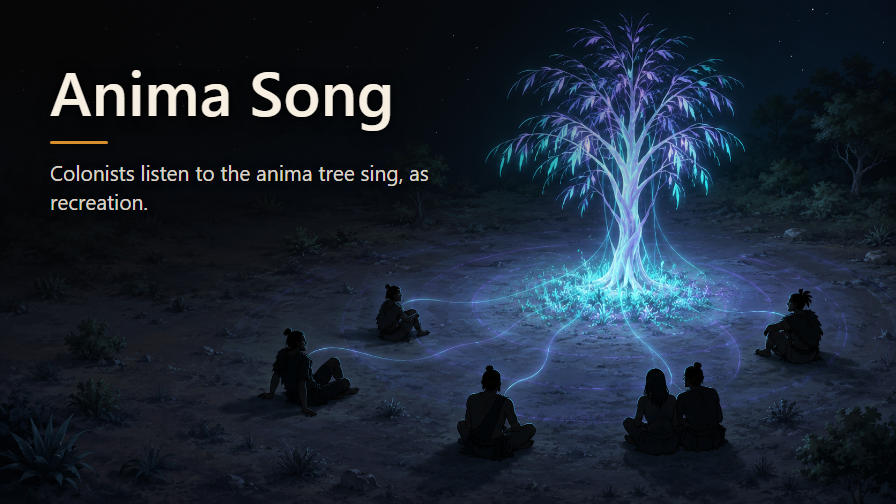
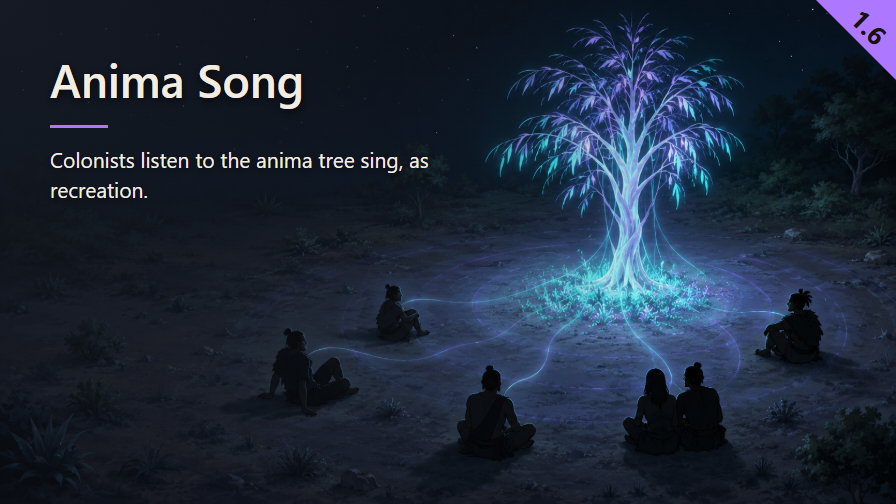
Recompose preview overlay with violet accent and version badge

diff --git a/Art/preview.html b/Art/preview.html
@@ -1,0 +1,40 @@
+<!doctype html>
+<html lang="en">
+<meta charset="utf-8">
+<title>Anima Song preview composition</title>
+<style>
+* { box-sizing: border-box; margin: 0; padding: 0; }
+html, body { width: 896px; height: 504px; overflow: hidden; }
+body { font-family: var(--font); }
+.art, .veil { position: absolute; inset: 0; width: 896px; height: 504px; }
+.art { object-fit: cover; }
+.copy { position: absolute; left: 50px; top: 54px; color: var(--inkPrimary); text-shadow: 0 3px 10px rgba(0,0,0,.75); }
+h1 { font-size: var(--titleSize); font-weight: 600; line-height: 1.1; letter-spacing: 0; width: max-content; max-width: 742px; }
+.tag { color: var(--inkSecondary); font-size: 24px; font-weight: 400; line-height: 1.1; letter-spacing: .2px; margin-top: 8px; }
+.rule { width: 58px; height: 3px; background: var(--accent); margin-top: 20px; margin-bottom: 16px; }
+.summary { width: 430px; font-size: 21px; font-weight: 400; line-height: 1.45; letter-spacing: 0; }
+.badge { position: absolute; right: 0; top: 0; width: 80px; height: 80px; background: var(--accent); clip-path: polygon(0 0,100% 0,100% 100%); }
+.version { position: absolute; left: 869px; top: 27px; transform: translate(-50%,-50%) rotate(45deg); color: var(--badgeInk); font-size: 26px; font-weight: 700; line-height: 1; text-shadow: none; }
+</style>
+<img class="art" alt="An anima tree with seated listeners">
+<div class="veil"></div>
+<main class="copy"><h1></h1><p class="tag" hidden></p><div class="rule"></div><p class="summary"></p></main>
+<div class="badge"></div><div class="version"></div>
+<script>
+window.ready = (async () => {
+  const [palette, layout] = await Promise.all(['preview-palette.json','preview-layout.json'].map(p => fetch(p).then(r => r.json())));
+  for (const [key, value] of Object.entries(palette)) document.documentElement.style.setProperty('--' + key, value);
+  document.documentElement.style.setProperty('--font', layout.font);
+  document.documentElement.style.setProperty('--titleSize', layout.titleSize + 'px');
+  document.querySelector('.art').src = layout.source;
+  document.querySelector('h1').textContent = layout.title;
+  document.querySelector('.summary').textContent = layout.summary;
+  document.querySelector('.version').textContent = layout.version;
+  if (layout.tag) { document.querySelector('.tag').hidden = false; document.querySelector('.tag').textContent = layout.tag; }
+  const rgb = palette.veil.match(/\w\w/g).map(x => parseInt(x,16)).join(',');
+  document.querySelector('.veil').style.background = `radial-gradient(circle at 0% 0%, rgba(${rgb},${layout.veilOpacity}) 0%, rgba(${rgb},0) ${layout.veilEndPercent}%)`;
+  await document.querySelector('.art').decode();
+  await document.fonts.ready;
+})();
+</script>
+</html>

diff --git a/STATUS.md b/STATUS.md
@@ -24,6 +24,42 @@ updated:      2026-09-12, the mod's own session
 
 # Anima Song — status
 
+## Preview overlay — 2026-09-12
+
+- Final asset: `Mod/About/Preview.png`, composed directly in HTML/CSS at 896 × 504,
+  711,863 bytes (below 900 KB). Nothing published.
+- Retained illustration: `Art/Preview.png`, an unchanged copy of the existing text-free
+  `Art/Preview-source.png`. No replacement or generation; the older original remains intact.
+  Its clear left-hand space suits the overlay. This pass retains the illustration's existing
+  cinematic style; it does not claim to correct the illustration deviations noted in the guide.
+- Composition: `Art/preview.html`; parameters and unchanged title/summary:
+  `Art/preview-layout.json`; sole colour reference: `Art/preview-palette.json`.
+  Reproduce with `Art/render-preview.cjs` (Node.js, Playwright, Sharp and installed Chrome).
+- Palette: the veil uses the broad blue-slate ground at the left, sampled over a region,
+  while the secondary ink is a lighter coloured blue from that dominant ground/shadow family.
+  The vivid violet accent comes from the tree's purple upper branches, with saturation
+  increased for the rule and badge. Its violet hue separates it from the dominant blue
+  ground and the lighter blue secondary ink; the former cyan accent was too close to that
+  ambient family. It represents a repeated feature of the subject rather than an isolated pixel.
+  Title and summary share exactly the same ivory ink; the badge uses dark ink.
+- Layout: text starts at (50, 54); title 46 px/600, rule 58 × 3 px, summary 21 px/400
+  across 430 px. Both words in `Anima Song` carry the identity of the title and stay at
+  full size: no prefix, suffix or connecting word requires a 65% span. No tag or reserved
+  tag row: original public production. Badge 80 × 80 px,
+  digits 26 px/700 rotated 45 degrees; version 1.6 checked against shipped supportedVersions.
+  Dark radial veil and text shadows follow STYLE_RIMWORLD.md.
+- Actual fonts verified through Chrome's platform-font reporting after `document.fonts.ready`:
+  Segoe UI Semibold for the title, Segoe UI for the summary, Segoe UI Bold for the badge.
+  No fallback font used.
+- QA: `Art/preview-qa.json`, `Art/preview-background.png` (text-free composite for measurement),
+  and `Art/preview-268.png`. Contrast checked over every pixel of both text bounding boxes
+  on the rendered background: title minimum 8.47:1, summary 12.04:1; badge 6.12:1 on its
+  opaque accent. All exceed 4.5:1. Tag contrast is not applicable because no tag is rendered.
+  Visually inspected at 896 × 504 and 268 px wide: no overlap or clipping, title and version
+  identifiable, rule visible. The violet rule and badge stand out from the blue scene;
+  violet accent and light-blue secondary ink are distinct palette families. The small
+  summary is intended to be read at full size.
+
 ## Verification — 2026-09-12
 
 - **Title:** keep `Anima Song`, without a suffix. This is an additional recreation mod,

diff --git a/Art/preview-workflow.md b/Art/preview-workflow.md
@@ -1,0 +1,18 @@
+# Preview composition
+
+Run `node Art/render-preview.cjs` from the repository root with `playwright` and `sharp`
+available to Node.js and Google Chrome installed. The script starts a temporary loopback
+server, captures at 896 × 504 after the image and fonts load, verifies platform fonts and
+contrast, saves the final PNG and QA artifacts, then closes the browser and server.
+
+- `Preview.png`: retained illustration without text, copied unchanged from `Preview-source.png`.
+- `preview.html`: HTML/CSS composition; load via a local HTTP server for interactive inspection.
+- `preview-layout.json`: exact existing wording, version and composition parameters.
+- `preview-palette.json`: the only source of overlay colours.
+- `preview-qa.json`: fonts, coordinates, byte count and measured contrast results.
+- `preview-background.png`: rendered composite with text and its shadows hidden.
+- `preview-268.png`: small-size visual QA.
+
+The renderer checks the version against `Mod/About/About.xml` and fails if parameters are stale.
+It writes `Mod/About/Preview.png`. Inspect that file and the small preview after any change.
+The secondary colour is saved for completeness; this original public mod has no status tag.
